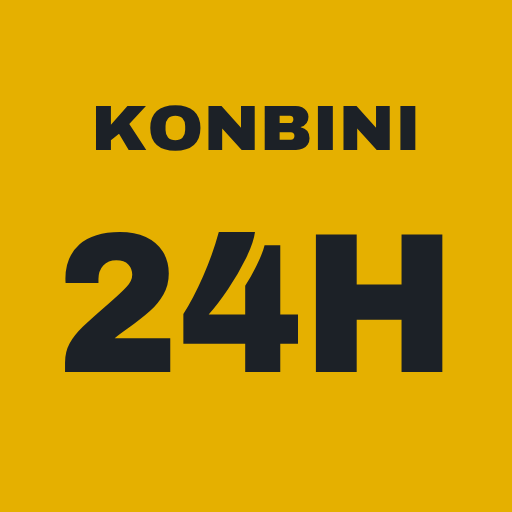
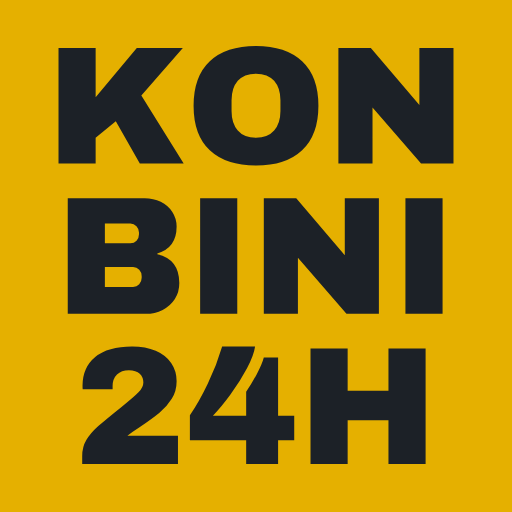
最初の並びを新しい順に、アイコンを KON/BINI/24H の3段に、ロゴ A の文字を同じ大きさに
Claude-Session: https://claude.ai/code/session_01NVsEU629k4kHTkbXKEjdsX

diff --git a/site/page.html b/site/page.html
@@ -120,7 +120,7 @@ button:focus-visible, a:focus-visible { outline: 2px solid var(--tag); outline-o
     <nav class="row" aria-label="__STORE_LABEL__">__STORES__</nav>
     <div class="row" id="cats" role="group" aria-label="__CAT_LABEL__"__CATS_HIDDEN__>__CATS__</div>
     <div class="bar">
-      <div class="seg" id="sort" role="group"><button type="button" data-s="views" aria-pressed="true">__SORT_VIEWS__</button><button type="button" data-s="new" aria-pressed="false">__SORT_NEW__</button></div>
+      <div class="seg" id="sort" role="group"><button type="button" data-s="new" aria-pressed="true">__SORT_NEW__</button><button type="button" data-s="views" aria-pressed="false">__SORT_VIEWS__</button></div>
       <span class="count" id="count">__COUNT__</span>
     </div>
   </div>
@@ -147,7 +147,7 @@ __CARDS__
   var T = __I18N__;
   var grid = document.getElementById("grid");
   var cards = Array.prototype.slice.call(grid.children);
-  var state = { k: "", sort: "views" };
+  var state = { k: "", sort: "new" };   // 最初は新しい順（開くたびに新しい動画が目に入るように）
 
   // 選んだ言語を覚える（一番上のページの振り分けで使う）
   document.querySelectorAll(".langs a").forEach(function (a) {

diff --git a/scripts/make_assets.py b/scripts/make_assets.py
@@ -5,7 +5,7 @@
   SVG に入れるので、ページはフォントを読み込まない。
 作るもの（site/assets/）:
   logo-a.svg            ページ上部のロゴ（案A: 白い看板＋からし色の帯に 24H）
-  icon.svg              アイコン（案C: からし色の正方形、KONBINI と大きな 24H）
+  icon.svg              アイコン（案C: からし色の正方形に KON・BINI・24H の3段、同じ文字の大きさ）
   icon-*.png, apple-touch-icon.png, favicon-32.png, favicon.ico   アイコンの各サイズ（Playwright で描く）
   og.jpg                SNS で共有した時の絵（1200×630。東京の絵＋ロゴ）
   slide-*-1536.webp / slide-*-768.webp   背景のスライドショー（design/slide-*.webp を縮める）
@@ -54,23 +54,40 @@ def icon_small(font):
 '''
 
 
+def adv(font, text):
+    cmap, hmtx = font.getBestCmap(), font["hmtx"]
+    return sum(hmtx[cmap[ord(c)]][0] for c in text)
+
+
 def logo_a(font):
-    k = text_path(font, "KONBINI", 160, 64, 40, width=236)
-    h = text_path(font, "24H", 160, 128, 40, width=96)
+    """横長のロゴ（案A）: 白い看板の KONBINI と、からし色の帯の 24H を同じ文字の大きさにする。"""
+    upm, cap = font["head"].unitsPerEm, font["OS/2"].sCapHeight
+    size = min(264 * upm / adv(font, "KONBINI"), 40 * upm / cap)   # 横幅264・文字の高さ40までに収まる大きさ
+    c = cap * size / upm
+    k = text_path(font, "KONBINI", 160, 45 + c / 2, size)        # 白い部分（10〜80）の真ん中
+    h = text_path(font, "24H", 160, 110 + c / 2, size)           # からし色の帯（80〜140）の真ん中
     return f'''<svg xmlns="http://www.w3.org/2000/svg" viewBox="0 0 320 150" role="img" aria-label="KONBINI 24H">
 <rect x="10" y="10" width="300" height="130" rx="14" fill="#fff"/>
-<path d="M10 86h300v40a14 14 0 0 1-14 14H24a14 14 0 0 1-14-14z" fill="{MUSTARD}"/>
+<path d="M10 80h300v46a14 14 0 0 1-14 14H24a14 14 0 0 1-14-14z" fill="{MUSTARD}"/>
 <path d="{k}" fill="{INK}"/><path d="{h}" fill="{INK}"/>
 </svg>
 '''
 
 
 def icon(font):
-    k = text_path(font, "KONBINI", 256, 150, 64, width=330)
-    h = text_path(font, "24H", 256, 372, 200, width=400)
+    """正方形のアイコン（案C）: KON / BINI / 24H の3段。3段とも同じ文字の大きさで、アイコンに収まる範囲でいちばん大きく。"""
+    upm, cap = font["head"].unitsPerEm, font["OS/2"].sCapHeight
+    lines = ["KON", "BINI", "24H"]
+    box = 512 * 0.82                       # 角の丸みで切れないよう、外側に少し余白
+    gap_ratio = 0.3                        # 段のあいだ（文字の高さに対して）
+    size = min(box * upm / max(adv(font, t) for t in lines), box * upm / (cap * (3 + 2 * gap_ratio)))
+    c = cap * size / upm
+    top = (512 - c * (3 + 2 * gap_ratio)) / 2
+    paths = "".join(f'<path d="{text_path(font, t, 256, top + c * (i + 1) + c * gap_ratio * i, size)}" fill="{INK}"/>'
+                    for i, t in enumerate(lines))
     return f'''<svg xmlns="http://www.w3.org/2000/svg" viewBox="0 0 512 512" role="img" aria-label="KONBINI 24H">
 <rect width="512" height="512" fill="{MUSTARD}"/>
-<path d="{k}" fill="{INK}"/><path d="{h}" fill="{INK}"/>
+{paths}
 </svg>
 '''
 

diff --git a/tests/test_build.py b/tests/test_build.py
@@ -62,6 +62,12 @@ class Build(unittest.TestCase):
         self.assertEqual(ld["numberOfItems"], self.info["videos"])
         self.assertEqual(ld["itemListElement"][0]["item"]["@type"], "VideoObject")
 
+    def test_newest_first(self):
+        page = self.read("ja/index.html")
+        dates = re.findall(r'<li class="card"[^>]*data-d="([0-9-]+)"', page)
+        self.assertEqual(dates, sorted(dates, reverse=True))
+        self.assertIn('data-s="new" aria-pressed="true"', page)
+
     def test_store_page_has_only_that_store(self):
         page = self.read("en/lawson/index.html")
         stores = re.findall(r'<div class="meta"><span>([^<]+)</span>', page)

diff --git a/scripts/build_site.py b/scripts/build_site.py
@@ -218,7 +218,8 @@ def js_strings(t):
 
 def render(template, site, langs, tags, t, videos, *, sub="", title, description, h1, lead, current_store=None,
            show_cats=True, cat_pages=(), visitors="", day):
-    videos = sorted(videos, key=lambda v: -v["views"])
+    # 最初の並びは新しい順（投稿日が同じなら再生数の多い順）。JavaScript の「新しい順」と同じ
+    videos = sorted(videos, key=lambda v: (v["published"], v["views"]), reverse=True)
     rel = page_url(t["path"], sub)
     figs, dots = hero(site, t)
     pages = ""

diff --git a/docs/spec.md b/docs/spec.md
@@ -120,11 +120,11 @@
 
 ## ページ上部・ロゴ・見せ方（2026-11-09 決定）
 
-- **ロゴ**: ページ上部は **A（看板そのまま）**: 白い看板の上に KONBINI、下のからし色の帯に 24H。ホーム画面・タブのアイコンは **C（正方形・24H が主役）**: からし色の四角に小さく KONBINI、大きく 24H（`design/logo-candidates.html`）。色はからし色 #E5B000 と墨色 #1C2127。からし色の上の文字は墨色。文字は線（アウトライン）にした画像にする
+- **ロゴ**: ページ上部は **A（看板そのまま）**: 白い看板の上に KONBINI、下のからし色の帯に 24H（2026-11-10: 2段の文字を同じ大きさに）。ホーム画面のアイコンは **C（正方形）**: からし色の四角に **KON / BINI / 24H の3段**、3段とも同じ文字の大きさで、アイコンに収まる範囲でいちばん大きく（2026-11-10 に変更）。タブの小さいアイコンは 24H だけ（`design/logo-candidates.html`）。色はからし色 #E5B000 と墨色 #1C2127。からし色の上の文字は墨色。文字は線（アウトライン）にした画像にする
 - **背景のスライドショー**: 東京 → 京都 → 富士山 → 坂道 の順に、6秒ごとにふわっと重ねて切り替える。画面の動きを減らす設定（`prefers-reduced-motion`）の端末では自動で切り替えず、指で送る。京都と坂道は見せる位置を左寄りにする（人物が左寄りのため）。1枚目だけ先に読み込み、残りは後から読み込む
 - **絵の上の文字**: 絵の下の暗い部分に、ロゴ（A）と各言語のタイトル・1行の説明を重ねる
 - **スライドに添える言葉**: 1枚ごとに込めた思いを短く出す（各言語）。例: 東京「夜中の2時でも開いている」、京都「京都の町にも似合う」、富士山「旅の途中に、ふらっと」、坂道「いつもの帰り道に」（文言は作る時に4言語で整える）
-- **最初の並び順**: 再生数の多い順
+- **最初の並び順**: **新しい順**（2026-11-10 に再生数の多い順から変更。開くたびに新しい動画が目に入り、飽きないように）
 - **「全店」の名前**: 「どこでも買える」と誤解されないよう **「食べ比べ・コンビニ全般」** にする（韓国語「여러 편의점」、繁体字「多家超商」、英語「Multiple stores」）。中身（2社以上の名前がある・店名がない動画）は変えない
 - **「いろいろ・新商品」**: 今のまま（タグで中身が分かるため）
 - **毎朝の更新**: 日本時間の朝5時40分（業スー酒場の5時10分と重ならないように）。GitHub の混み具合で遅れることがある
@@ -132,7 +132,7 @@
 
 ## 並べ替え
 
-**新しい順**（投稿日）と **再生数の多い順** を切り替える。最初は再生数の多い順（2026-11-09 決定）。
+**新しい順**（投稿日）と **再生数の多い順** を切り替える。最初は**新しい順**（2026-11-10 に変更）。
 
 ## 1本ごとの表示
 

diff --git a/STATUS.md b/STATUS.md
@@ -2,7 +2,7 @@
 
 新しいセッションは、最初にこのファイルを読む。作業や相談で状況が変わったら、最後にこのファイルを更新する。
 
-最終更新: 2026-11-09（公開した）
+最終更新: 2026-11-10（最初の並びを新しい順に、アイコンを3段に）
 
 ## 今の状況
 
@@ -70,6 +70,8 @@
 - 2026-11-09: PR #12 をマージ。1回目の Actions は Pages が未設定で失敗（GoatCounter も 404）→ 訪問者数を合計と国別で別々に受け取るよう直した（PR #13）
 - 2026-11-09: 人がリポジトリを public にし、Pages の Source を GitHub Actions にした。手で動かした2回目（集め直し→ data ブランチに記録→公開）と、PR #13 のマージで動いた3回目が成功。**https://uniiqcode.com/konbini-24h/ で公開**。集め直しで86本、分類のページは rice・sweets・mixed（1言語8ページ）。訪問者数も受け取れた
 - 2026-11-09: uniiqcode.com のトップのメニュー（業スー酒場の次）・JSON-LD・robots.txt のサイトマップの行にコンビニ24H を足した（uniiqcode/uniiqcode.github.io の PR #29、マージ済み）
+- 2026-11-09: 人が Search Console と Bing にサイトマップを送った
+- 2026-11-10: 人の指示で、**最初の並びを新しい順**に（開くたびに新しい動画が目に入るように）。**正方形のアイコンを KON / BINI / 24H の3段**（同じ文字の大きさで、収まる範囲でいちばん大きく）に、横長のロゴ A も2段の文字を同じ大きさにした。共有用の絵も作り直した
 - 2026-11-07: スライド1の2回目（`design/slide-tokyo.webp`）を**採用**
 - 2026-11-07: 次は京都の夕方（町家の通りのコンビニの前で、レンタル着物の黒人の男女が手を振り、舞妓さんが会釈して通り過ぎる）。日本らしさの中にアニメもあるので、写真風・アニメ背景美術風・写真＋アニメ調の人物の3つのタッチで比べる → `design/hero-slides.md`
 - 2026-11-07: 京都の1回目は舞妓さんが話を盛りすぎ・コンビニの意味がない → 舞妓さんを消し、食べ歩きをしない形で商品とつなげる（二人が買ったばかりの抹茶のロールケーキを見せ合う）。2回目を**採用**（`design/slide-kyoto.webp`）。残りは2場面
@@ -82,7 +84,7 @@
 |----------|------|
 | （念のため）J-PlatPat の商標検索で KONBINI24H・コンビニ２４ も見る（`docs/name-check.md`） | 人 |
 | 公開したページを開いて確かめる（サムネイル・スライドショー・訪問者数・SNS で共有した時の表示） | 人 |
-| Search Console にサイトマップ（https://uniiqcode.com/konbini-24h/sitemap.xml ）を送る。Naver Search Advisor に登録する（`docs/seo.md`） | 人 |
+| Naver Search Advisor に登録する（持ち主の確認の1行を uniiqcode.com のトップに入れる） | 人＋Claude |
 
 ## 未決
 
